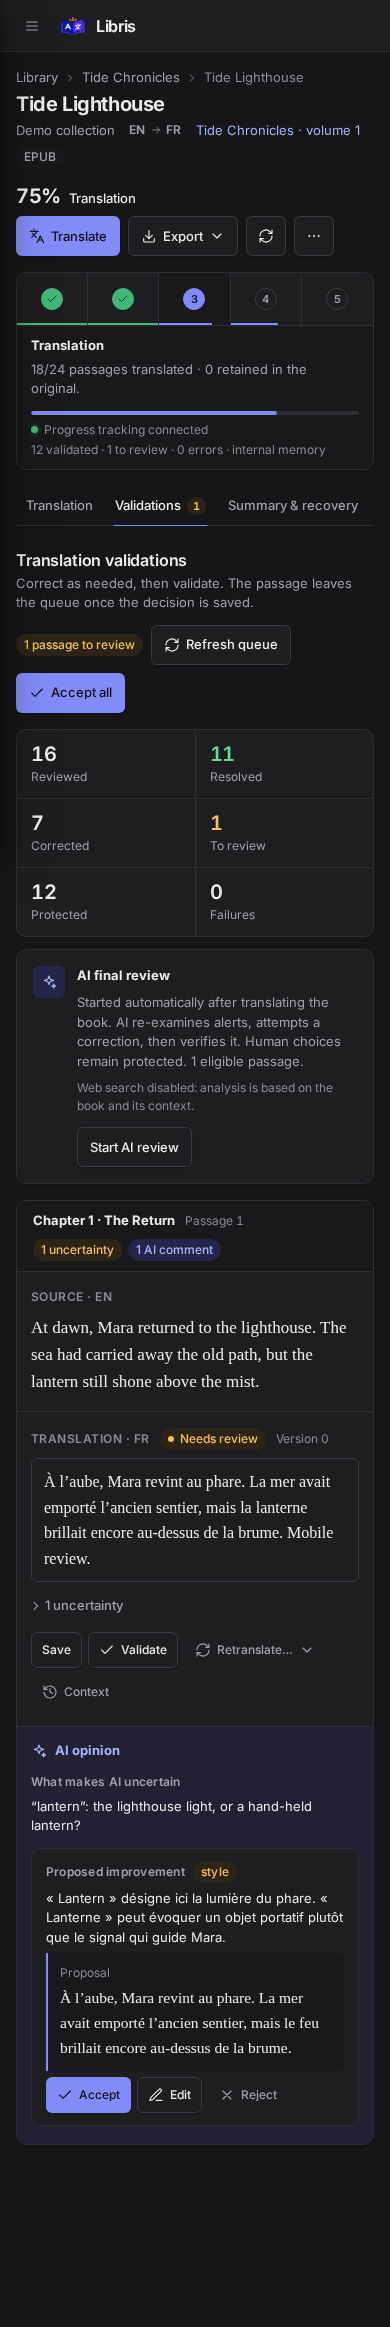
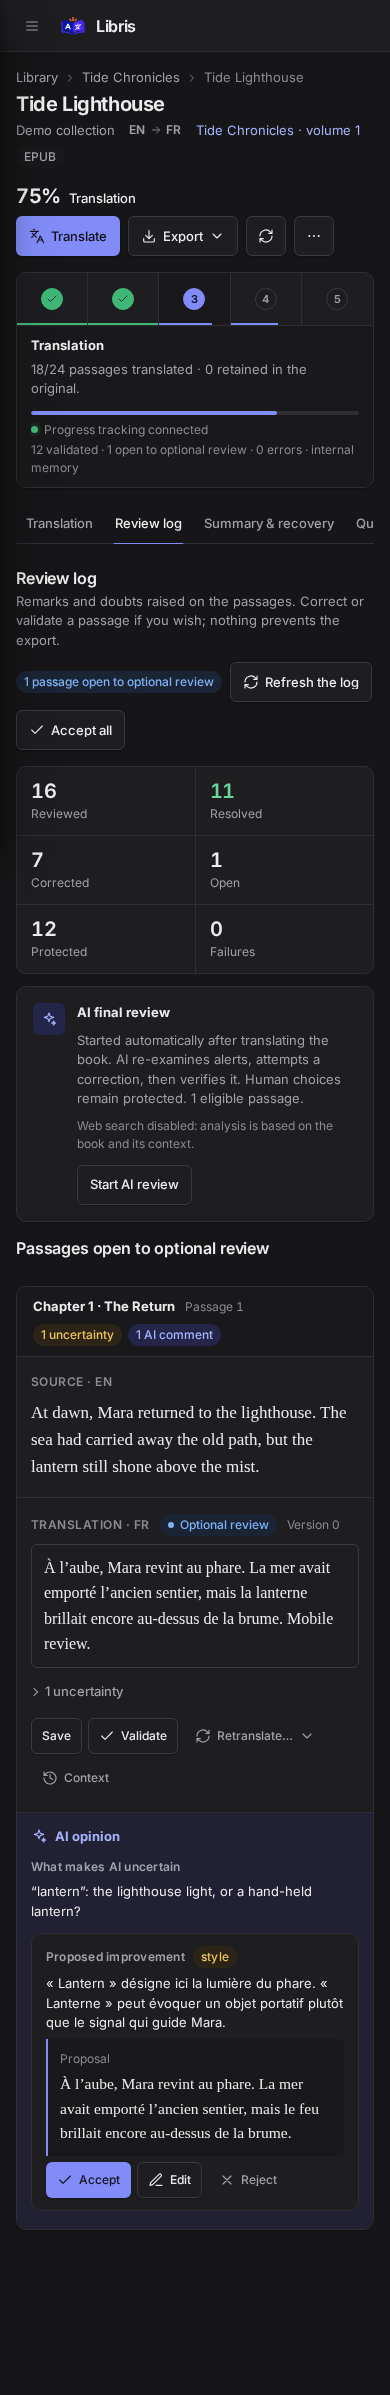
docs(screenshots): autopilot report, installation settings and the review log
The showcase follows the review log and the automatic export wording, and
captures a finished autopilot run (report, passage kept in the original,
decision log, desktop and mobile) and Settings › Autopilot, all from fictional
data.

diff --git a/frontend/e2e/showcase.spec.ts b/frontend/e2e/showcase.spec.ts
@@ -263,6 +263,76 @@ test("capture public Libris showcase", async ({ page }) => {
       { human: true, validated: true, revision: 2 },
     ),
   ];
+  // The autopilot of "Atlas for Tomorrow": a finished run, its report and its decision log.
+  const decision = (id: string, stage: string, kind: string, action: string, reason: string, extra: object = {}) => ({
+    id,
+    project_id: "demo-3",
+    job_id: "job-atlas",
+    segment_id: null as string | null,
+    stage,
+    kind,
+    action,
+    reason,
+    provider: "Local model",
+    model: "zeta-model",
+    created_at: 1789254000 - Number(id.slice(1)) * 60,
+    ...extra,
+  });
+  const decisions = [
+    decision("d1", "report", "convergence", "stable", "Converged in 2 rounds: 23 passages translated, 1 kept in the original."),
+    decision("d2", "arbitration", "critique", "applied", "“Lantern” is the lighthouse light: “feu” chosen over “lanterne”, as in the glossary.", {
+      segment_id: "segment-0",
+    }),
+    decision("d3", "recovery", "failed_passage", "source_retained", "Refused twice by every provider: the original sentence is kept.", {
+      segment_id: "segment-7",
+    }),
+    decision("d4", "provider", "outage", "fallback_provider", "“Local model” unavailable after 5 waits: “Backup model” takes over.", {
+      provider: "Backup model",
+      model: "omega-model",
+    }),
+    decision("d5", "memory", "glossary", "accepted", "“Keeper” → “gardien”: used 9 times in the book."),
+    decision("d6", "review", "doubt", "left_unvalidated", "Stylistic doubt with no clear improvement: translation kept."),
+  ];
+  const autopilotView = {
+    enabled: true,
+    settings: { max_rounds: 3, fallback_provider_ids: ["backup"], outage_max_retries: 5, outage_max_wait_seconds: 3600 },
+    report: {
+      outcome: "completed_with_residuals",
+      rounds: 2,
+      residuals: [{ segment_id: "segment-7", chapter_id: "chapter-3", reason: "Refused twice by every provider: the original sentence is kept." }],
+      job_id: "job-atlas",
+      status: "completed",
+      finished_at: 1789254000,
+    },
+  };
+  const finishedJob = {
+    id: "job-atlas",
+    status: "completed",
+    operation: "translate",
+    error: "",
+    stop_reason: "",
+    next_attempt: 0,
+    outage_count: 0,
+    attempts: 1,
+    options: { autopilot: true },
+    checkpoint: {},
+    created_at: 1789240000,
+    finished_at: 1789254000,
+  };
+  const autopilotValues = {
+    enabled: true,
+    max_rounds: 3,
+    fallback_providers: ["backup"],
+    outage_max_retries: 5,
+    outage_max_wait_seconds: 3600,
+    glossary_min_confidence: 0.75,
+    identity_min_confidence: 0.8,
+    bible_min_coverage: 0.8,
+    stale_min_coverage: 0.5,
+  };
+  const autopilotSettings = { values: autopilotValues, defaults: autopilotValues, saved: true, fallback_provider_ids: ["backup"] };
+  const hooks = { hosts: ["hooks.example.org", "*.example.net"], private_networks: [], max_attempts: 6, timeout_seconds: 10 };
+  const webhookSettings = { values: hooks, defaults: hooks, saved: true, secret: { configured: true, source: "saved" } };
   const errors: string[] = [];
   let exportedProjects: string[] = [];
   const languages = new Set<string>();
@@ -292,8 +362,23 @@ test("capture public Libris showcase", async ({ page }) => {
       await route.fulfill({ contentType: "application/epub+zip", body: "synthetic epub" });
       return;
     }
+    if (path === "/api/settings/autopilot") {
+      await route.fulfill({ json: autopilotSettings });
+      return;
+    }
+    if (path === "/api/settings/webhooks") {
+      await route.fulfill({ json: webhookSettings });
+      return;
+    }
     let data: unknown = [];
-    if (path.endsWith("/auth/me")) data = { id: "demo-user", username: "Démo", admin: true };
+    if (path === "/api/projects/demo-3") data = books[2];
+    else if (path === "/api/projects/demo-3/jobs") data = [finishedJob];
+    else if (path === "/api/projects/demo-3/autopilot") {
+      const stage = url.searchParams.get("stage");
+      const segment = url.searchParams.get("segment_id");
+      const items = decisions.filter((item) => (!stage || item.stage === stage) && (!segment || item.segment_id === segment));
+      data = { ...autopilotView, decisions: { items, total: items.length, limit: 25, offset: 0 } };
+    } else if (path.endsWith("/auth/me")) data = { id: "demo-user", username: "Démo", admin: true };
     else if (path === "/api/projects") data = books;
     else if (path === "/api/series") data = [tide];
     else if (path === "/api/series/tide") data = { ...tide, bible: {}, volume_list: books.slice(0, 2) };
@@ -307,7 +392,11 @@ test("capture public Libris showcase", async ({ page }) => {
           : url.searchParams.get("status")
             ? []
             : segments();
-    else if (path === "/api/providers") data = [{ id: "local", kind: "openai", name: "Local model", model: "zeta-model" }];
+    else if (path === "/api/providers")
+      data = [
+        { id: "local", kind: "openai", name: "Local model", model: "zeta-model" },
+        { id: "backup", kind: "openai", name: "Backup model", model: "omega-model" },
+      ];
     else if (path.endsWith("/final-review"))
       data = {
         automatic: true,
@@ -363,7 +452,7 @@ test("capture public Libris showcase", async ({ page }) => {
   const seriesSection = page.getByRole("region", { name: /^Series/ });
   await expect(seriesSection.getByRole("link", { name: "Tide Chronicles" })).toBeVisible();
   await expect(seriesSection).toContainText("2 volumes · 8 chapters");
-  await expect(seriesSection).toContainText("1 to review");
+  await expect(seriesSection).toContainText("1 open");
   await expect(page.getByRole("progressbar", { name: "Translation of Tide Chronicles" })).toHaveAttribute("value", "38");
   await expect(page.getByRole("progressbar", { name: "Export for Atlas for Tomorrow" })).toHaveAttribute("value", "100");
 
@@ -477,8 +566,8 @@ test("capture public Libris showcase", async ({ page }) => {
   await expect(mobilePreview).toBeVisible();
   expect((await mobilePreview.boundingBox())?.width).toBeLessThanOrEqual(390);
   await mobilePreview.getByRole("button", { name: "Close" }).click();
-  await tabs.getByRole("tab", { name: /Validations/ }).click();
-  await expect(page.getByRole("heading", { name: "Translation validations" })).toBeVisible();
+  await tabs.getByRole("tab", { name: /Review log/ }).click();
+  await expect(page.getByRole("heading", { name: "Review log" })).toBeVisible();
   await tabs.getByRole("tab", { name: "Translation" }).click();
   await expect(mobileTranslation).toBeVisible();
   await expect.poll(() => page.evaluate(() => document.documentElement.scrollWidth)).toBe(390);
@@ -489,8 +578,8 @@ test("capture public Libris showcase", async ({ page }) => {
     ["Stage 1: Import", "EPUB imported and structure loaded."],
     ["Stage 2: Analysis & memory", "24/24 passages analyzed · 4/4 sections synthesized."],
     ["Stage 3: Translation", "18/24 passages translated · 0 retained in the original."],
-    ["Stage 4: Review", "16/24 passages reviewed · 0 resolved · 1 to review."],
-    ["Stage 5: Export", "Resolve the remaining alerts before the final export."],
+    ["Stage 4: Review", "16/24 passages reviewed · 0 resolved · 1 open."],
+    ["Stage 5: Export", "The result will be ready when the automatic work ends; exporting stays possible at any time."],
   ]) {
     await page.getByRole("button", { name: button, exact: true }).click();
     await expect(page.getByText(detail, { exact: true })).toBeVisible();
@@ -508,12 +597,12 @@ test("capture public Libris showcase", async ({ page }) => {
   await expect(inspectorTrigger).toBeFocused();
 
   await chooseTheme(page, "Dark");
-  await page.getByRole("tab", { name: /Validations/ }).click();
+  await page.getByRole("tab", { name: /Review log/ }).click();
   await expect(page.getByText("AI opinion", { exact: true })).toBeVisible();
   await page.screenshot({ path: resolve(output, "validations.png"), fullPage: true });
   await page.setViewportSize({ width: 390, height: 844 });
   await expect.poll(() => page.evaluate(() => document.documentElement.scrollWidth)).toBe(390);
-  await expect(page.getByRole("tab", { name: /Validations/ })).toHaveAttribute("aria-selected", "true");
+  await expect(page.getByRole("tab", { name: /Review log/ })).toHaveAttribute("aria-selected", "true");
   await page.screenshot({ path: resolve(output, "validations-mobile.png"), fullPage: true });
   await page.setViewportSize({ width: 1440, height: 1040 });
   await chooseTheme(page, "Light");
@@ -524,7 +613,27 @@ test("capture public Libris showcase", async ({ page }) => {
   await page.getByRole("menuitem", { name: "Translated EPUB", exact: true }).click();
   await download;
   await expect(page.getByText("File received; download sent to the browser.")).toBeVisible();
-  await expect(page.getByRole("heading", { name: "Translation validations" })).toBeVisible();
+  await expect(page.getByRole("heading", { name: "Review log" })).toBeVisible();
+  // The autopilot: a finished book, its report, the passage kept in the original and the decision log.
+  await page.goto(`${base}/#project/demo-3`);
+  const status = page.locator(".autopilot-status");
+  await expect(status).toContainText("Autopilot finished");
+  await expect(status.getByRole("button", { name: "Download the EPUB" })).toBeVisible();
+  await status.getByRole("button", { name: "See the report" }).click();
+  await expect(page.getByRole("heading", { name: "Autopilot", level: 2 })).toBeVisible();
+  await expect(page.locator(".decision-log")).toContainText("“Backup model” takes over.");
+  await page.screenshot({ path: resolve(output, "autopilot.png"), fullPage: true });
+  await page.setViewportSize({ width: 390, height: 844 });
+  await expect.poll(() => page.evaluate(() => document.documentElement.scrollWidth)).toBe(390);
+  await page.screenshot({ path: resolve(output, "autopilot-mobile.png"), fullPage: true });
+  await page.setViewportSize({ width: 1440, height: 1040 });
+
+  await page.goto(`${base}/#settings`);
+  await page.getByRole("tab", { name: "Autopilot", exact: true }).click();
+  await expect(page.getByRole("form", { name: "Installation autopilot" }).locator(".fallback-list li")).toHaveText([
+    /Backup model/,
+  ]);
+  await page.screenshot({ path: resolve(output, "settings-autopilot.png"), fullPage: true });
   expect([...languages]).toEqual(["en"]);
   expect(errors).toEqual([]);
 });
